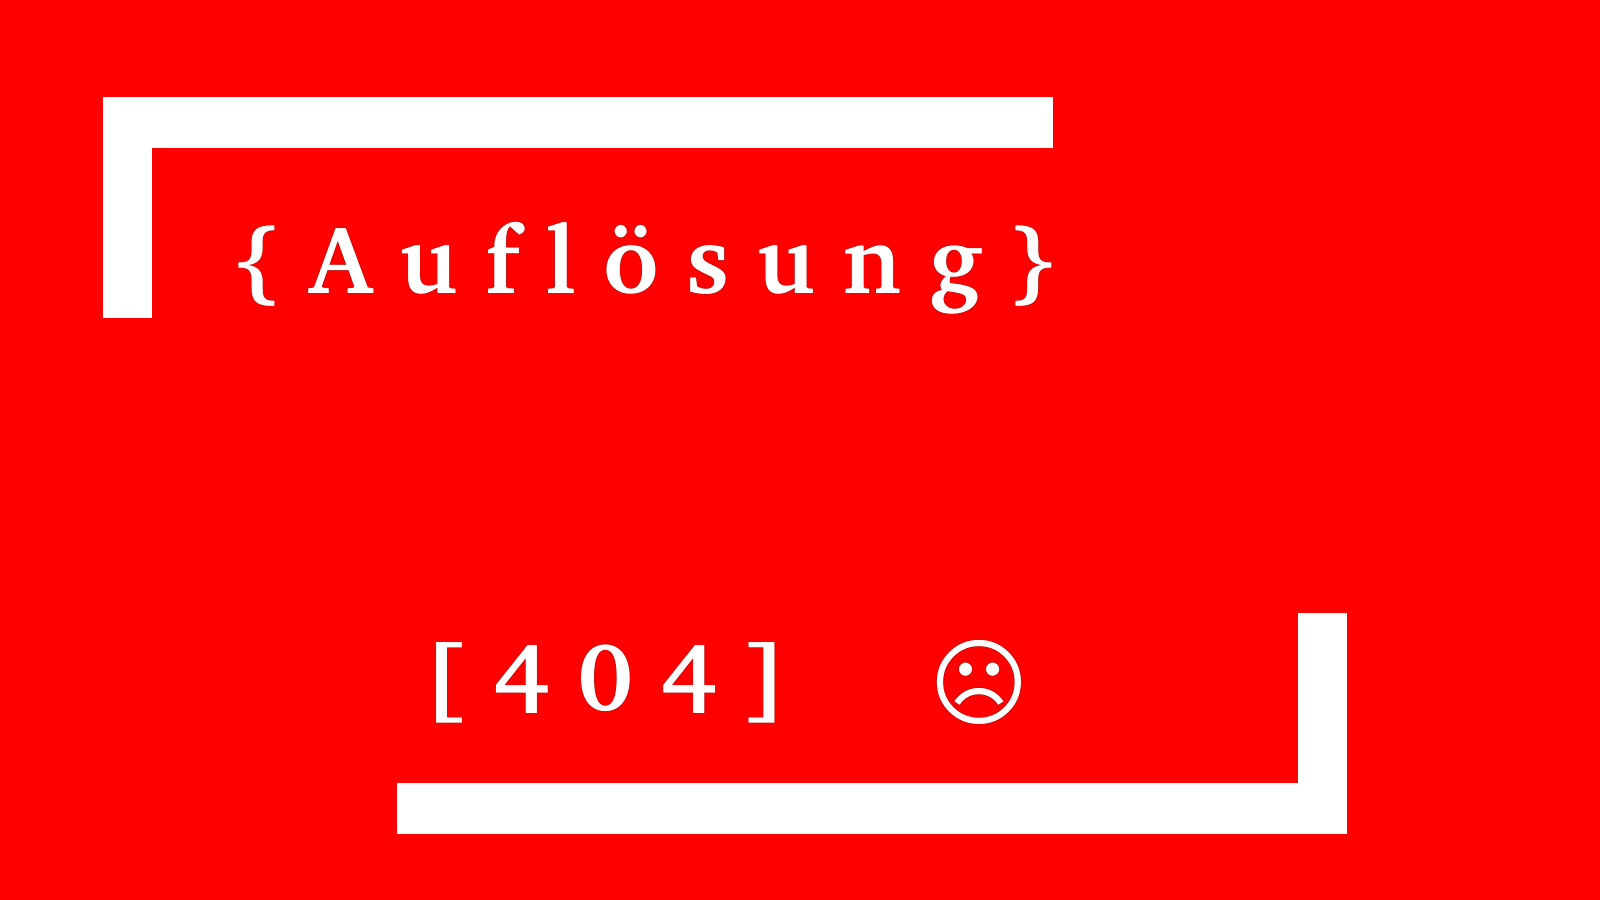
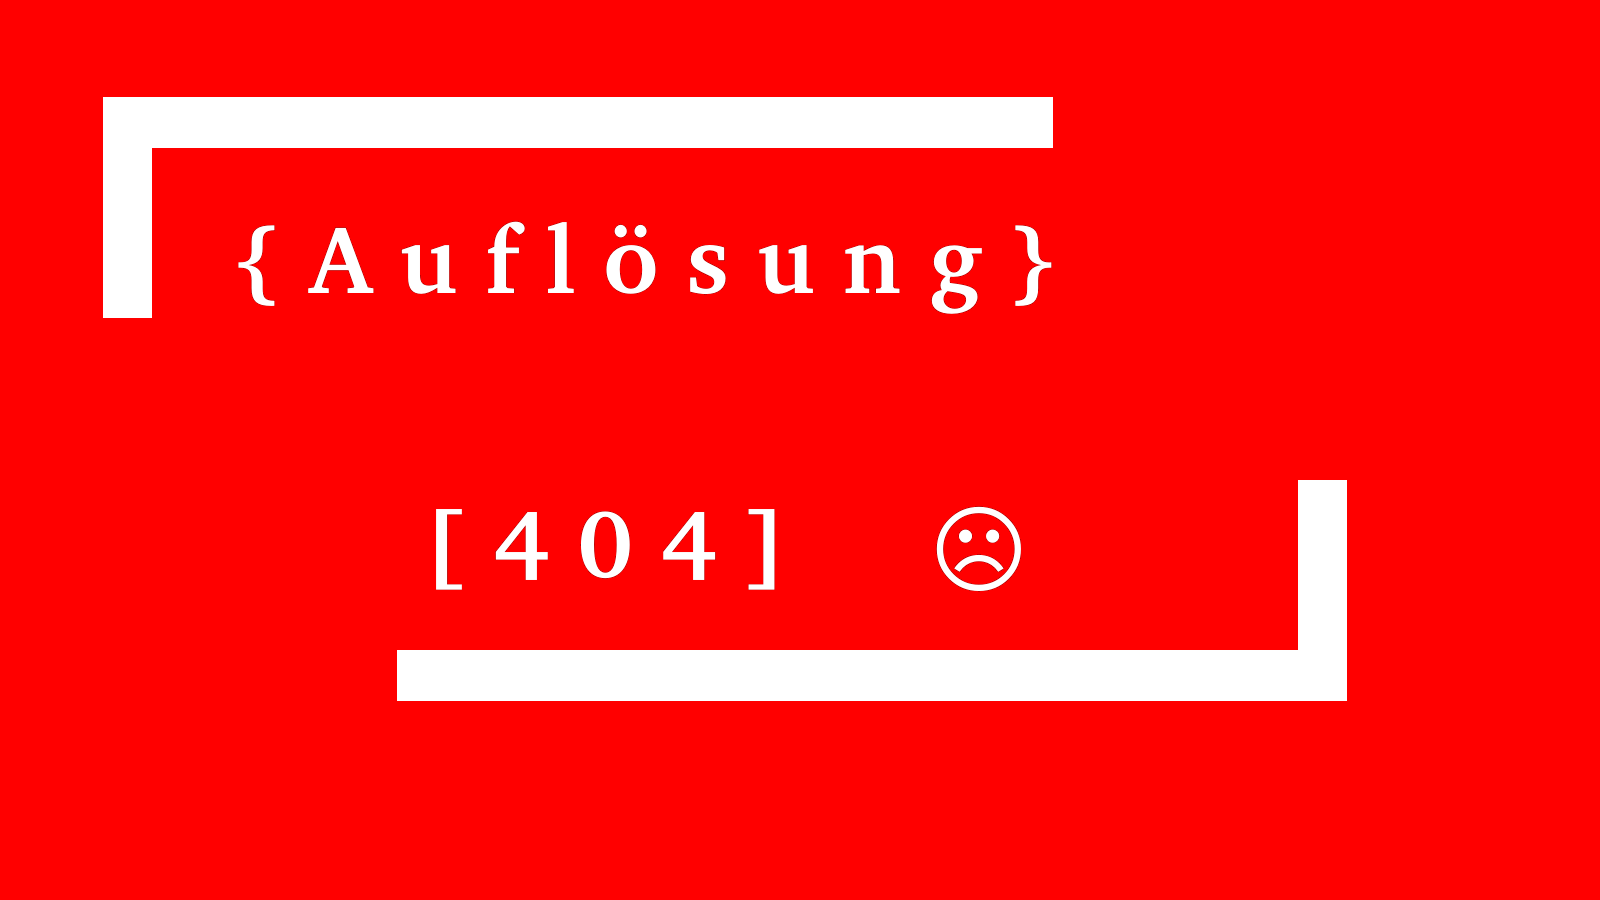
geändert

diff --git a/style.css b/style.css
@@ -2,139 +2,135 @@
     margin: 0;
     padding: 0;
     box-sizing: border-box;
-    /* border: 1px solid green; */
 }
 
 /* MOBILE VIEW */
-@media screen and (max-width: 576px) {
+header,
+footer {
+    height: 8vh;
+    background-image: url(./image/header.jpg);
+    opacity: 0.8;
+}
 
-    header,
-    footer {
-        height: 8vh;
-        background-image: url(./image/header.jpg);
-        opacity: 0.8;
-    }
+body {
+    background-color: black;
+}
 
-    body {
-        background-color: black;
-    }
+h1,
+h2,
+h4,
+.icon-down a,
+.foot p {
+    font-family: "Dosis", sans-serif;
+    font-optical-sizing: auto;
+    font-weight: 600;
+    font-style: normal;
+}
 
-    h1,
-    h2,
-    h4,
-    .icon-down a,
-    .foot p {
-        font-family: "Dosis", sans-serif;
-        font-optical-sizing: auto;
-        font-weight: 600;
-        font-style: normal;
-    }
+.icon-up {
+    display: block;
+    text-align: center;
+    font-size: 2rem;
+}
 
-    .icon-up {
-        display: block;
-        text-align: center;
-        font-size: 2rem;
-    }
+.icon-up a i {
+    color: green;
+    margin-right: 0.5rem;
+    margin-top: 1.8rem;
+}
 
-    .icon-up a i {
-        color: green;
-        margin-right: 0.5rem;
-        margin-top: 1.8rem;
-    }
+h1,
+h2 {
+    color: yellow;
+    text-align: center;
+    text-transform: uppercase;
+}
 
-    h1,
-    h2 {
-        color: yellow;
-        text-align: center;
-        text-transform: uppercase;
-    }
+h1 i {
+    transform: rotate(45deg);
+}
 
-    h1 i {
-        transform: rotate(45deg);
-    }
+h1 i:hover {
+    transform: rotate(-45deg);
+    cursor: pointer;
+}
 
-    h1 i:hover {
-        transform: rotate(-45deg);
-        cursor: pointer;
-    }
+.info p {
+    color: white;
+    text-align: center;
+    font-family: Arial, Helvetica, sans-serif;
+    font-weight: 600;
+}
 
-    .info p {
-        color: white;
-        text-align: center;
-        font-family: Arial, Helvetica, sans-serif;
-        font-weight: 600;
-    }
+h4,
+.boxs {
+    margin-left: 0.3rem;
+}
 
-    h4,
-    .boxs {
-        margin-left: 0.3rem;
-    }
+.pic img {
+    display: flex;
+    width: 200px;
+    height: 200px;
+    text-align: center;
+    margin: 0.5rem auto;
+    border-radius: 50%;
+}
 
-    .pic img {
-        display: flex;
-        width: 200px;
-        height: 200px;
-        text-align: center;
-        margin: 0.5rem auto;
-        border-radius: 50%;
-    }
+.group {
+    display: flex;
+    text-align: center;
+}
 
-    .group {
-        display: flex;
-        text-align: center;
-    }
+.group h2 {
+    color: gold;
+    padding: 0.6rem;
+}
 
-    .group h2 {
-        color: gold;
-        padding: 0.6rem;
-    }
+.group .hr {
+    width: 100vw;
+    height: 1px;
+    border: 1px dashed white;
+    margin-top: 0.9rem;
+}
 
-    .group .hr {
-        width: 100vw;
-        height: 1px;
-        border: 1px dashed white;
-        margin-top: 0.9rem;
-    }
+h4 {
+    color: goldenrod;
+}
 
-    h4 {
-        color: goldenrod;
-    }
+.boxs .uib {
+    display: grid;
+    grid-template-columns: repeat(3, 1fr);
+    grid-template-rows: repeat(2, 1fr);
+    width: 100vw;
+    margin-top: 0.4rem;
+    margin-bottom: 0.5rem;
+    gap: 10px;
+}
 
-    .boxs .uib {
-        display: grid;
-        grid-template-columns: repeat(3, 1fr);
-        grid-template-rows: repeat(2, 1fr);
-        width: 100vw;
-        margin-top: 0.4rem;
-        margin-bottom: 0.5rem;
-        gap: 10px;
-    }
+.boxs .uib .box {
+    width: 160px;
+    height: 35px;
+    color: whitesmoke;
+    border: 1px solid purple;
+    padding: 0.5rem;
+}
 
-    .boxs .uib .box {
-        width: 160px;
-        height: 35px;
-        color: whitesmoke;
-        border: 1px solid purple;
-        padding: 0.5rem;
-    }
+footer .icon-down {
+    display: block;
+    text-align: center;
+    font-size: 1.3rem;
+    margin-top: 2rem;
+    padding: 1rem;
+}
 
-    footer .icon-down {
-        display: block;
-        text-align: center;
-        font-size: 1.3rem;
-        margin-top: 2rem;
-        padding: 1rem;
-    }
+footer .icon-down a,
+footer .foot p {
+    color: white;
+    text-align: center;
+}
 
-    footer .icon-down a,
-    footer .foot p {
-        color: white;
-        text-align: center;
-    }
-
-    footer .foot {
-        text-align: center;
-    }
+footer .foot {
+    text-align: center;
 }
 
 /* TABLET VIEW */
@@ -400,7 +396,7 @@
 
     body {
         background-image: url(./image/error.png);
+        background-size: cover;
         visibility: hidden;
     }
-
 }
